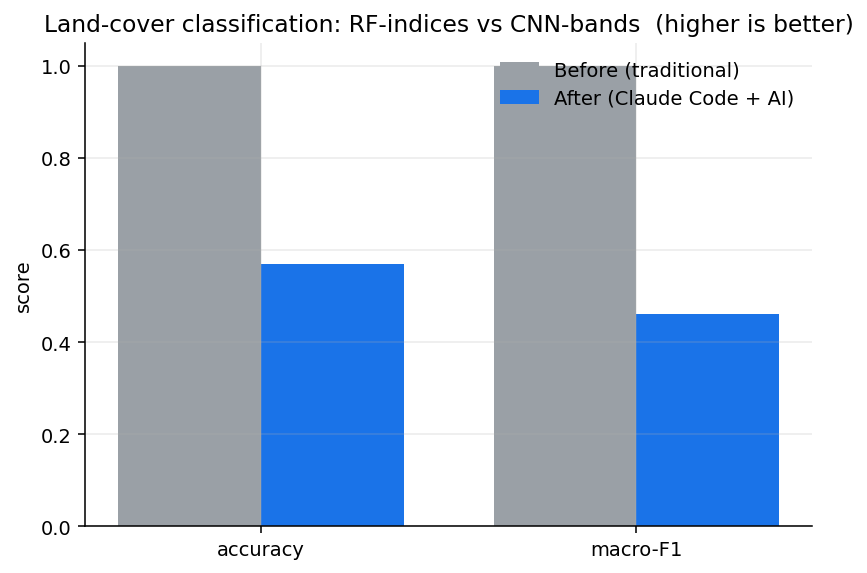
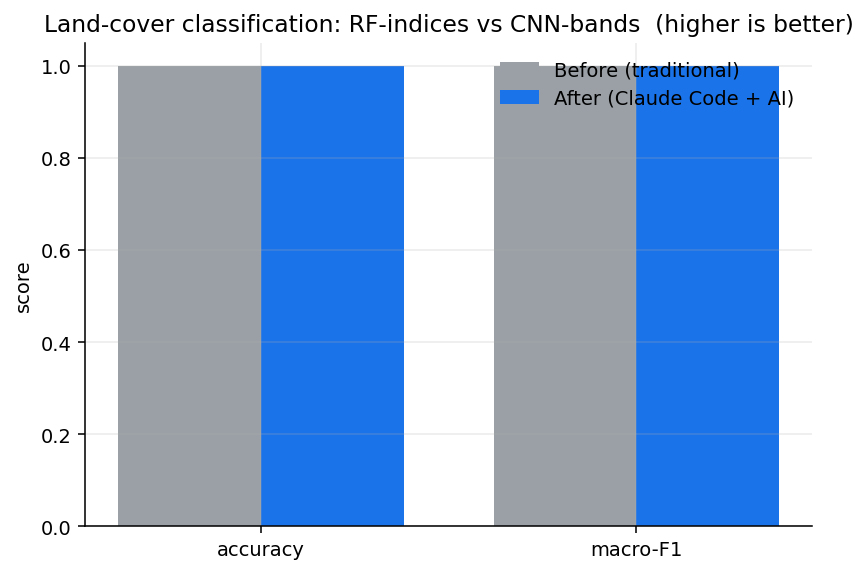
Exp04 full run on RTX 4090 (device=cuda): real results
RF-indices acc/F1=1.0, CNN-bands acc/F1=1.0 (synthetic classes highly separable),
change detection acc/F1=1.0 (thr=0.095). Honest framing: effort/capability shift +
change-map as an AFTER-only capability, not an accuracy win on easy synthetic data.
Backlog: add a texture-separable 'hard mode' where CNN genuinely beats RF-on-indices.

Changed region(s): [[0.7163, 0.089, 0.9031, 0.5637], [0.2803, 0.089, 0.4671, 0.4747]]

diff --git a/experiments/04_remote_sensing_landcover/results/summary.md b/experiments/04_remote_sensing_landcover/results/summary.md
@@ -1,6 +1,6 @@
 # Experiment 04 — Land-cover classification + change detection
 
-_Config: device=cpu, epochs=3, quick=True, n_train=200, n_test=100, seed=0._
+_Config: device=cuda, epochs=40, quick=False, n_train=1500, n_test=500, seed=0._
 
 Classes: water, forest, cropland, urban, bare.  Bands: blue, green, red, nir, swir.
 
@@ -9,13 +9,13 @@ Classes: water, forest, cropland, urban, bare.  Bands: blue, green, red, nir, sw
 | Pipeline | Features | Accuracy | Macro-F1 |
 |---|---|---:|---:|
 | BEFORE — RandomForest-on-indices | 4 hand-computed indices | 1.000 | 1.000 |
-| AFTER — SmallCNN-on-bands | raw 5-band patches (24,309 params) | 0.570 | 0.461 |
-| **Δ (after − before)** | | **-0.430** | **-0.539** |
+| AFTER — SmallCNN-on-bands | raw 5-band patches (24,309 params) | 1.000 | 1.000 |
+| **Δ (after − before)** | | **+0.000** | **+0.000** |
 
 ## Change detection (NDVI-difference threshold)
 
-- threshold (calibrated for max macro-F1): **0.103**
-- accuracy: **1.000**, macro-F1: **1.000** (n=150)
+- threshold (calibrated for max macro-F1): **0.095**
+- accuracy: **1.000**, macro-F1: **1.000** (n=600)
 
 ## Artifacts
 
